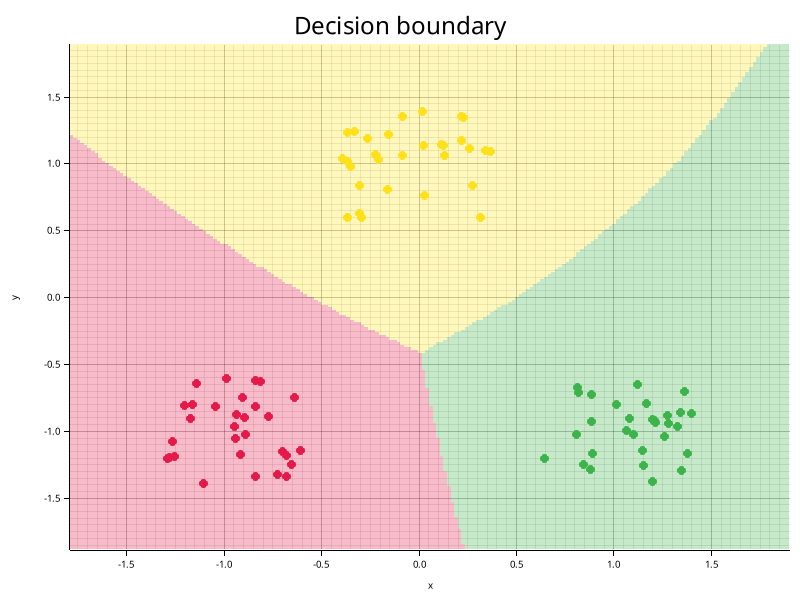
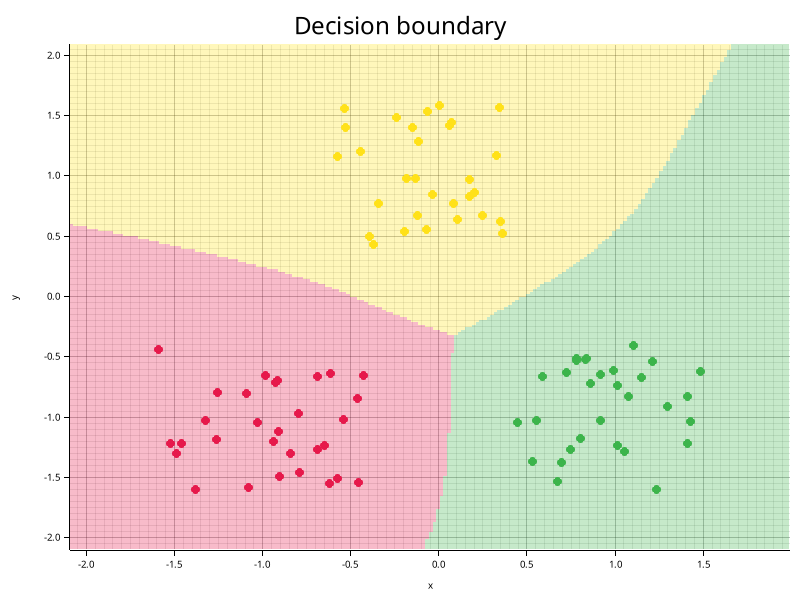
feat: add visualizer plot weight and style update

diff --git a/src/autograd.rs b/src/autograd.rs
@@ -33,22 +33,22 @@ pub struct Var(Rc<RefCell<VarData>>);
 
 impl Var {
     pub fn data(&self) -> Ref<'_, Tensor> {
-        return Ref::map(self.0.borrow(), |d| &d.data);
+        Ref::map(self.0.borrow(), |d| &d.data)
     }
     pub fn grad(&self) -> Ref<'_, Tensor> {
-        return Ref::map(self.0.borrow(), |d| &d.grad);
+        Ref::map(self.0.borrow(), |d| &d.grad)
     }
     pub fn from_op(data: Tensor, children: Vec<Var>, op: TOp) -> Var {
         let grad = Tensor::fill(data.rows(), data.cols(), 0.0);
         Var(Rc::new(RefCell::new(VarData {
-            data: data,
-            grad: grad,
-            children: children,
-            op: op,
+            data,
+            grad,
+            children,
+            op,
         })))
     }
     pub fn new(data: Tensor) -> Var {
-        return Var::from_op(data, vec![], TOp::Leaf);
+        Var::from_op(data, vec![], TOp::Leaf)
     }
     pub fn matmul(&self, other: &Var) -> Var {
         return Var::from_op(
@@ -62,7 +62,7 @@ impl Var {
     }
     pub fn sum(&self) -> Var {
         let data = Tensor::fill(1, 1, self.data().sum());
-        return Var::from_op(data, vec![self.clone()], TOp::Sum);
+        Var::from_op(data, vec![self.clone()], TOp::Sum)
     }
     pub fn add(&self, other: &Var) -> Var {
         return Var::from_op(
@@ -94,11 +94,11 @@ impl Var {
     }
     pub fn add_row(&self, bias: &Var) -> Var {
         let data = self.data().add_row(&bias.data());
-        return Var::from_op(data, vec![self.clone(), bias.clone()], TOp::AddRow);
+        Var::from_op(data, vec![self.clone(), bias.clone()], TOp::AddRow)
     }
     pub fn mul_elem(&self, other: &Var) -> Var {
         let data = self.data().mul_elem(&other.data());
-        return Var::from_op(data, vec![self.clone(), other.clone()], TOp::MulElem);
+        Var::from_op(data, vec![self.clone(), other.clone()], TOp::MulElem)
     }
     pub fn relu(&self) -> Var {
         return Var::from_op(
@@ -192,7 +192,7 @@ impl Var {
             }
             TOp::ReLu => {
                 let contribution = data
-                    .map(|x| if x > 0.0 { return 1.0 } else { return 0.0 })
+                    .map(|x| if x > 0.0 { 1.0 } else { 0.0 })
                     .mul_elem(&grad);
                 children[0].accumulate_grad(&contribution);
             }

diff --git a/src/visualizer.rs b/src/visualizer.rs
@@ -152,3 +152,46 @@ pub fn plot_decision_boundary(
 
     Ok(())
 }
+
+pub fn plot_weights(
+    w: &Tensor,
+    n_neurons: usize,
+    path: &str,
+) -> Result<(), Box<dyn std::error::Error>> {
+    let grid_rows = (n_neurons as f32).sqrt().ceil() as usize;
+    let side = (w.rows() as f32).sqrt().ceil() as usize;
+    let root = BitMapBackend::new(path, (800, 800)).into_drawing_area();
+    root.fill(&WHITE)?;
+
+    let areas = root.split_evenly((grid_rows, grid_rows));
+
+    for (j, area) in areas.iter().enumerate().take(n_neurons) {
+        let (width, _) = area.dim_in_pixel();
+        let pixel_size = width as i32 / side as i32;
+        let max_abs = (0..w.rows()).map(|p| w.get(p, j).abs()).fold(0.0, f32::max);
+        for r in 0..side {
+            for c in 0..side {
+                let mut color = RGBColor(255, 255, 255);
+                let value = w.get(r * side + c, j) / max_abs;
+                if value >= 0.0 {
+                    let x = (255.0 * (1.0 - value)) as u8;
+                    color = RGBColor(255, x, x);
+                } else if value < 0.0 {
+                    let x = (255.0 * (1.0 + value)) as u8;
+                    color = RGBColor(x, x, 255);
+                }
+
+                area.draw(&Rectangle::new(
+                    [
+                        (c as i32 * pixel_size, r as i32 * pixel_size),
+                        ((c as i32 + 1) * pixel_size, (r as i32 + 1) * pixel_size),
+                    ],
+                    color.filled(),
+                ))?
+            }
+        }
+    }
+
+    root.present()?;
+    Ok(())
+}

diff --git a/src/tensor.rs b/src/tensor.rs
@@ -213,7 +213,7 @@ impl Tensor {
                 sum += out.data[i * out.columns + j];
             }
             for j in 0..out.columns {
-                out.data[i * out.columns + j] = out.data[i * out.columns + j] / sum;
+                out.data[i * out.columns + j] /= sum;
             }
         }
 
@@ -230,11 +230,11 @@ impl Tensor {
             }
             let mut sum = 0.0;
             for j in 0..out.columns {
-                out.data[i * out.columns + j] = out.data[i * out.columns + j] - max;
+                out.data[i * out.columns + j] -= max;
                 sum += out.data[i * out.columns + j].exp();
             }
             for j in 0..out.columns {
-                out.data[i * out.columns + j] = out.data[i * out.columns + j] - sum.ln();
+                out.data[i * out.columns + j] -= sum.ln();
             }
         }
 

diff --git a/examples/three_class.rs b/examples/three_class.rs
@@ -15,8 +15,8 @@ fn main() {
     let mut target_vec = Vec::new();
     for (c, &(cx, cy)) in centers.iter().enumerate() {
         for _ in 0..n_data_per_class {
-            input_data_vec.push(cx + rand::random_range(-0.4..0.4));
-            input_data_vec.push(cy + rand::random_range(-0.4..0.4));
+            input_data_vec.push(cx + rand::random_range(-0.6..0.6));
+            input_data_vec.push(cy + rand::random_range(-0.6..0.6));
             for k in 0..3 {
                 if c == k {
                     target_vec.push(1.0)

diff --git a/examples/mnist.rs b/examples/mnist.rs
@@ -1,5 +1,5 @@
 use micrograd_rs::autograd::Var;
-use micrograd_rs::visualizer::plot_loss;
+use micrograd_rs::visualizer::{plot_loss, plot_weights};
 use micrograd_rs::{
     data::{
         DataLoader,
@@ -53,4 +53,9 @@ fn main() {
     let accuracy = corrects as f32 / (truth.len()) as f32;
     println!("accuracy: {accuracy}");
     plot_loss(&losses, "plot_results/losses_mnst.png").unwrap();
+    plot_weights(
+        &model.parameters()[0].data(),
+        128,
+        "plot_results/weights.png",
+    );
 }

diff --git a/src/loss.rs b/src/loss.rs
@@ -22,8 +22,8 @@ pub fn bce_loss(pred: &Var, target: &Var) -> Var {
     let one_minus_target = ones.sub(target);
     let term1 = target.mul_elem(&pred.add(&eps).log());
     let term2 = one_minus_target.mul_elem(&one_minus_pred.add(&eps).log());
-    let loss = (term1.add(&term2)).mean().scale(-1.0);
-    loss
+    
+    (term1.add(&term2)).mean().scale(-1.0)
 }
 
 pub fn cross_entropy_loss(logits: &Var, target: &Var) -> Var {

diff --git a/examples/mnist_view.rs b/examples/mnist_view.rs
@@ -14,7 +14,7 @@ fn main() {
                 print!(" ");
             }
         }
-        println!("");
+        println!();
     }
     println!("label:{}", labels[0]);
 }
